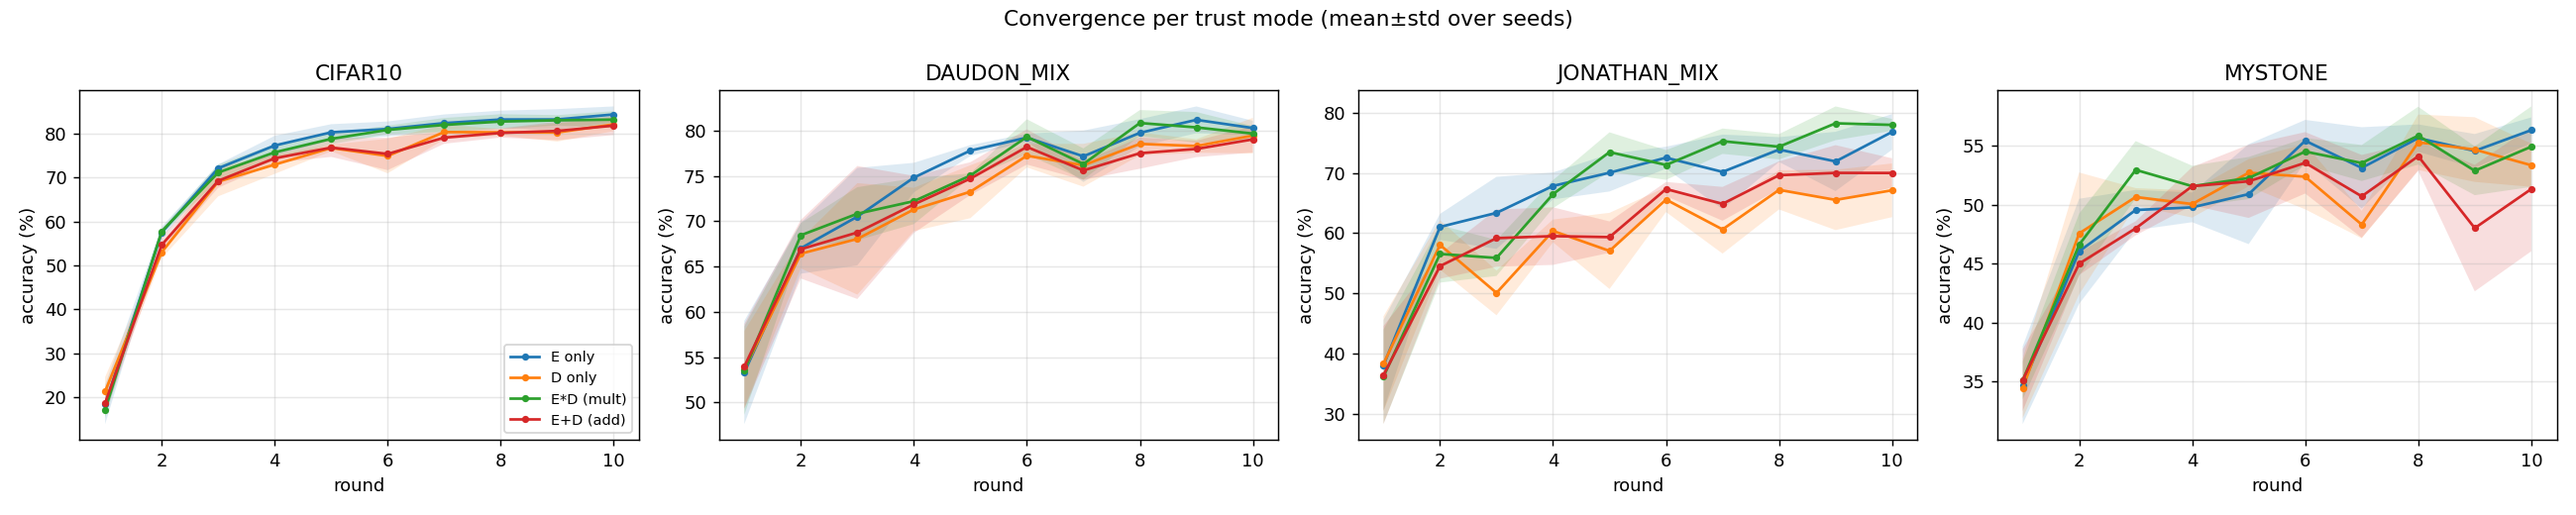
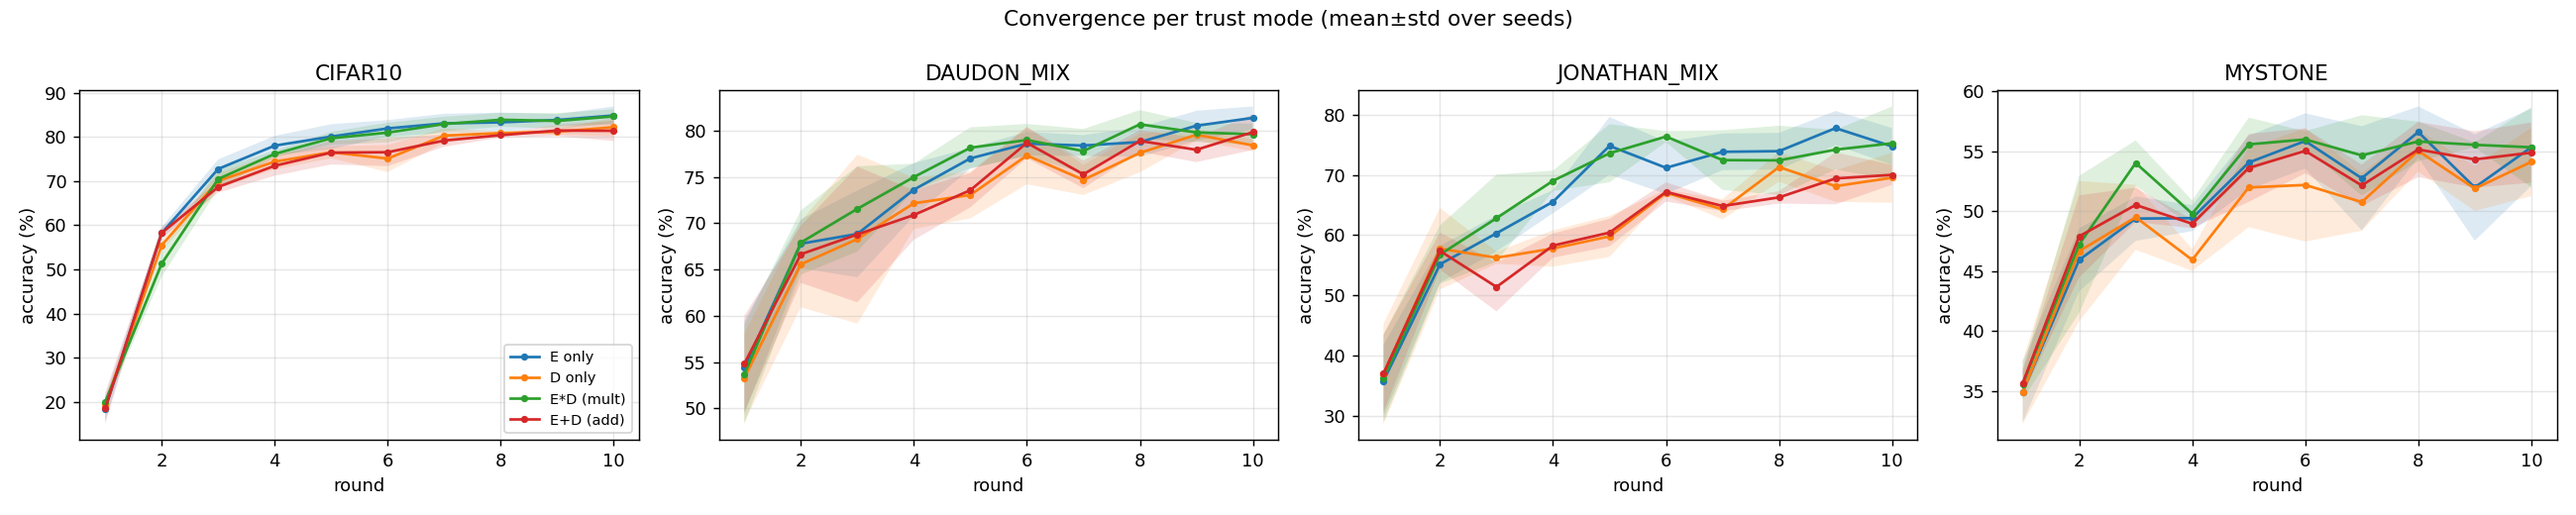
Add per-round trust distribution figure (R2.5 v)
boxplot of the normalized weights of benign vs corrupted clients for every
round; the round-averaged figure and the scalar ratio plot both hide the
spread the reviewer asked to see.

diff --git a/analysis/analyze_trust_ablation.py b/analysis/analyze_trust_ablation.py
@@ -330,12 +330,87 @@ def trust_evolution():
     plt.close(fig)
 
 
+def trust_distribution_per_round(mode="combined_mult"):
+    """Per-round *distribution* of the client trust weights (Reviewer 2.5(v)).
+
+    The reviewer asked to "show the distribution of client trust scores over
+    rounds". ``trust_distribution`` aggregates over all rounds and
+    ``trust_evolution`` plots a single scalar ratio per round; neither shows the
+    spread. This draws, for every round, the box plot of the normalized weights
+    of the benign and of the corrupted clients side by side.
+    """
+    corr = corrupted_ids(44)
+    datasets = ["DAUDON_MIX", "JONATHAN_MIX", "MYSTONE", "CIFAR10"]
+    per_ds = {}
+    for ds in datasets:
+        f = os.path.join(RES, "trust_scores",
+                         f"trust_{ds}_non-iid-label_{mode}_c10_r10.csv")
+        if not os.path.exists(f):
+            continue
+        rounds = defaultdict(lambda: {"b": [], "c": []})
+        for row in csv.DictReader(open(f)):
+            r = int(row["round"])
+            key = "c" if int(row["client"]) in corr else "b"
+            rounds[r][key].append(float(row["trust_normalized"]))
+        per_ds[ds] = rounds
+    if not per_ds:
+        return
+
+    ncols = 2
+    nrows = (len(per_ds) + ncols - 1) // ncols
+    fig, axes = plt.subplots(nrows, ncols, figsize=(8.0 * ncols, 3.8 * nrows),
+                             squeeze=False)
+    axflat = axes.flatten()
+    for j, (ds, rounds) in enumerate(sorted(per_ds.items(),
+                                            key=lambda kv: datasets.index(kv[0]))):
+        ax = axflat[j]
+        xs = sorted(rounds)
+        w = 0.34
+        bp_b = ax.boxplot([rounds[r]["b"] for r in xs],
+                          positions=[x - w / 1.8 for x in xs], widths=w,
+                          patch_artist=True, showfliers=False,
+                          medianprops=dict(color="black", lw=1.4))
+        bp_c = ax.boxplot([rounds[r]["c"] for r in xs],
+                          positions=[x + w / 1.8 for x in xs], widths=w,
+                          patch_artist=True, showfliers=False,
+                          medianprops=dict(color="black", lw=1.4))
+        for b in bp_b["boxes"]:
+            b.set(facecolor="#1f77b4", alpha=0.75)
+        for b in bp_c["boxes"]:
+            b.set(facecolor="#d62728", alpha=0.75)
+        # uniform weight: the reference a corruption-blind aggregator would use
+        ax.axhline(1.0 / 10, color="k", ls="--", lw=1.2, alpha=0.7)
+        ax.set_xticks(xs)
+        ax.set_xticklabels([str(x) for x in xs], fontsize=12)
+        ax.set_title(ds, fontsize=17, fontweight="bold")
+        ax.set_xlabel("communication round", fontsize=14)
+        ax.set_ylabel("normalized trust weight", fontsize=14)
+        ax.tick_params(axis="y", labelsize=12)
+        ax.grid(axis="y", alpha=0.3)
+        if j == 0:
+            ax.legend([bp_b["boxes"][0], bp_c["boxes"][0]],
+                      ["benign clients", "corrupted clients"],
+                      fontsize=13, loc="upper left", framealpha=0.9)
+    for k in range(len(per_ds), len(axflat)):
+        axflat[k].set_visible(False)
+    fig.tight_layout()
+    out = os.path.join(OUT, "trust_distribution_rounds.png")
+    fig.savefig(out, dpi=150, bbox_inches="tight")
+    plt.close(fig)
+    srcpaper = os.path.join(ROOT, "jcr-fedagain", "src-paper")
+    if os.path.isdir(srcpaper):
+        import shutil
+        shutil.copy(out, os.path.join(srcpaper, "trust_distribution_rounds.png"))
+    print(f"  - trust_distribution_rounds.png ({mode})")
+
+
 def main():
     rows = load_ledger()
     agg, datasets, base_modes = table_accuracy(rows)
     convergence(rows, datasets, base_modes)
     supp = trust_distribution()
     trust_evolution()
+    trust_distribution_per_round()
     write_report(agg, supp)
     print(f"[analysis] wrote outputs to {OUT}")
     for f in sorted(os.listdir(OUT)):

diff --git a/results_analysis/trust_ablation/suppression.md b/results_analysis/trust_ablation/suppression.md
@@ -4,21 +4,23 @@ Higher benign/corrupt ratio = stronger down-weighting of corrupted clients.
 
 | dataset | mode | benign | corrupt | benign/corrupt |
 |---|---|---|---|---|
-| CIFAR10 | additive | 0.10024 | 0.09945 | 1.008 |
-| CIFAR10 | benchmark_only | 0.12417 | 0.04359 | 2.848 |
+| CIFAR10 | additive | 0.10023 | 0.09947 | 1.008 |
+| CIFAR10 | benchmark_only | 0.12485 | 0.04201 | 2.972 |
 | CIFAR10 | combined_mult | 0.12415 | 0.04365 | 2.845 |
 | CIFAR10 | divergence_only | 0.10002 | 0.09995 | 1.001 |
-| CIFAR10 | weighted_additive | 0.10013 | 0.09971 | 1.004 |
-| DAUDON_MIX | additive | 0.10110 | 0.09743 | 1.038 |
-| DAUDON_MIX | benchmark_only | 0.12517 | 0.04126 | 3.033 |
+| CIFAR10 | weighted_additive | 0.10013 | 0.09970 | 1.004 |
+| DAUDON_MIX | additive | 0.10112 | 0.09738 | 1.038 |
+| DAUDON_MIX | benchmark_only | 0.12531 | 0.04095 | 3.060 |
 | DAUDON_MIX | combined_mult | 0.12648 | 0.03822 | 3.309 |
-| DAUDON_MIX | divergence_only | 0.10059 | 0.09863 | 1.020 |
-| DAUDON_MIX | weighted_additive | 0.10090 | 0.09791 | 1.031 |
-| JONATHAN_MIX | additive | 0.10091 | 0.09787 | 1.031 |
-| JONATHAN_MIX | benchmark_only | 0.12937 | 0.03146 | 4.112 |
+| DAUDON_MIX | divergence_only | 0.10058 | 0.09865 | 1.020 |
+| DAUDON_MIX | weighted_additive | 0.10086 | 0.09799 | 1.029 |
+| JONATHAN_MIX | additive | 0.10093 | 0.09784 | 1.032 |
+| JONATHAN_MIX | benchmark_only | 0.12968 | 0.03075 | 4.218 |
 | JONATHAN_MIX | combined_mult | 0.13023 | 0.02946 | 4.421 |
-| JONATHAN_MIX | divergence_only | 0.10039 | 0.09910 | 1.013 |
-| MYSTONE | additive | 0.10359 | 0.09161 | 1.131 |
-| MYSTONE | benchmark_only | 0.10915 | 0.07866 | 1.388 |
+| JONATHAN_MIX | divergence_only | 0.10041 | 0.09905 | 1.014 |
+| JONATHAN_MIX | weighted_additive | 0.10067 | 0.09843 | 1.023 |
+| MYSTONE | additive | 0.10362 | 0.09156 | 1.132 |
+| MYSTONE | benchmark_only | 0.10985 | 0.07702 | 1.426 |
 | MYSTONE | combined_mult | 0.11311 | 0.06942 | 1.629 |
-| MYSTONE | divergence_only | 0.10339 | 0.09210 | 1.123 |
+| MYSTONE | divergence_only | 0.10338 | 0.09211 | 1.122 |
+| MYSTONE | weighted_additive | 0.10350 | 0.09184 | 1.127 |

diff --git a/results_analysis/trust_ablation/table_accuracy_f1.md b/results_analysis/trust_ablation/table_accuracy_f1.md
@@ -2,18 +2,24 @@
 
 | dataset | E only | D only | E*D (mult) | E+D (add) |
 |---|---|---|---|---|
-| CIFAR10 | 84.44±1.83 | 82.18±1.54 | 83.26±1.91 | 81.89±2.15 |
-| DAUDON_MIX | 80.28±0.80 | 79.44±1.96 | 79.67±0.83 | 79.03±1.46 |
-| JONATHAN_MIX | 76.81±2.95 | 67.11±4.46 | 77.97±0.99 | 69.99±2.44 |
-| MYSTONE | 56.34±1.08 | 53.36±1.84 | 54.93±3.42 | 51.34±5.28 |
+| CIFAR10 | 84.87±2.05 | 82.21±2.10 | 84.66±1.62 | 81.39±2.32 |
+| DAUDON_MIX | 81.36±1.23 | 78.39±0.64 | 79.60±1.14 | 79.82±1.92 |
+| JONATHAN_MIX | 74.72±3.05 | 69.53±4.16 | 75.24±6.11 | 70.00±1.65 |
+| MYSTONE | 55.32±3.23 | 54.11±2.86 | 55.32±3.33 | 54.88±2.51 |
 
 ## weighted_additive variants (accuracy %)
 
 | dataset | variant | acc | f1 |
 |---|---|---|---|
-| CIFAR10 | wADD(a0.5,b1.0) | 82.16±1.90 | 82.14 |
-| CIFAR10 | wADD(a1.0,b2.0) | 81.80±2.14 | 81.79 |
-| CIFAR10 | wADD(a2.0,b1.0) | 82.39±2.01 | 82.44 |
-| DAUDON_MIX | wADD(a0.5,b1.0) | 78.83±0.39 | 78.98 |
-| DAUDON_MIX | wADD(a1.0,b2.0) | 78.33±0.57 | 78.58 |
-| DAUDON_MIX | wADD(a2.0,b1.0) | 79.04±0.86 | 78.99 |
+| CIFAR10 | wADD(a0.5,b1.0) | 82.45±2.12 | 82.49 |
+| CIFAR10 | wADD(a1.0,b2.0) | 82.02±1.54 | 82.00 |
+| CIFAR10 | wADD(a2.0,b1.0) | 82.68±1.82 | 82.58 |
+| DAUDON_MIX | wADD(a0.5,b1.0) | 79.22±0.84 | 79.29 |
+| DAUDON_MIX | wADD(a1.0,b2.0) | 77.68±1.87 | 77.83 |
+| DAUDON_MIX | wADD(a2.0,b1.0) | 78.58±1.01 | 78.76 |
+| JONATHAN_MIX | wADD(a0.5,b1.0) | 67.47±3.50 | 66.00 |
+| JONATHAN_MIX | wADD(a1.0,b2.0) | 68.82±4.88 | 67.07 |
+| JONATHAN_MIX | wADD(a2.0,b1.0) | 65.42±2.32 | 63.25 |
+| MYSTONE | wADD(a0.5,b1.0) | 53.13±2.07 | 50.98 |
+| MYSTONE | wADD(a1.0,b2.0) | 54.35±2.46 | 51.90 |
+| MYSTONE | wADD(a2.0,b1.0) | 52.44±3.68 | 51.14 |
